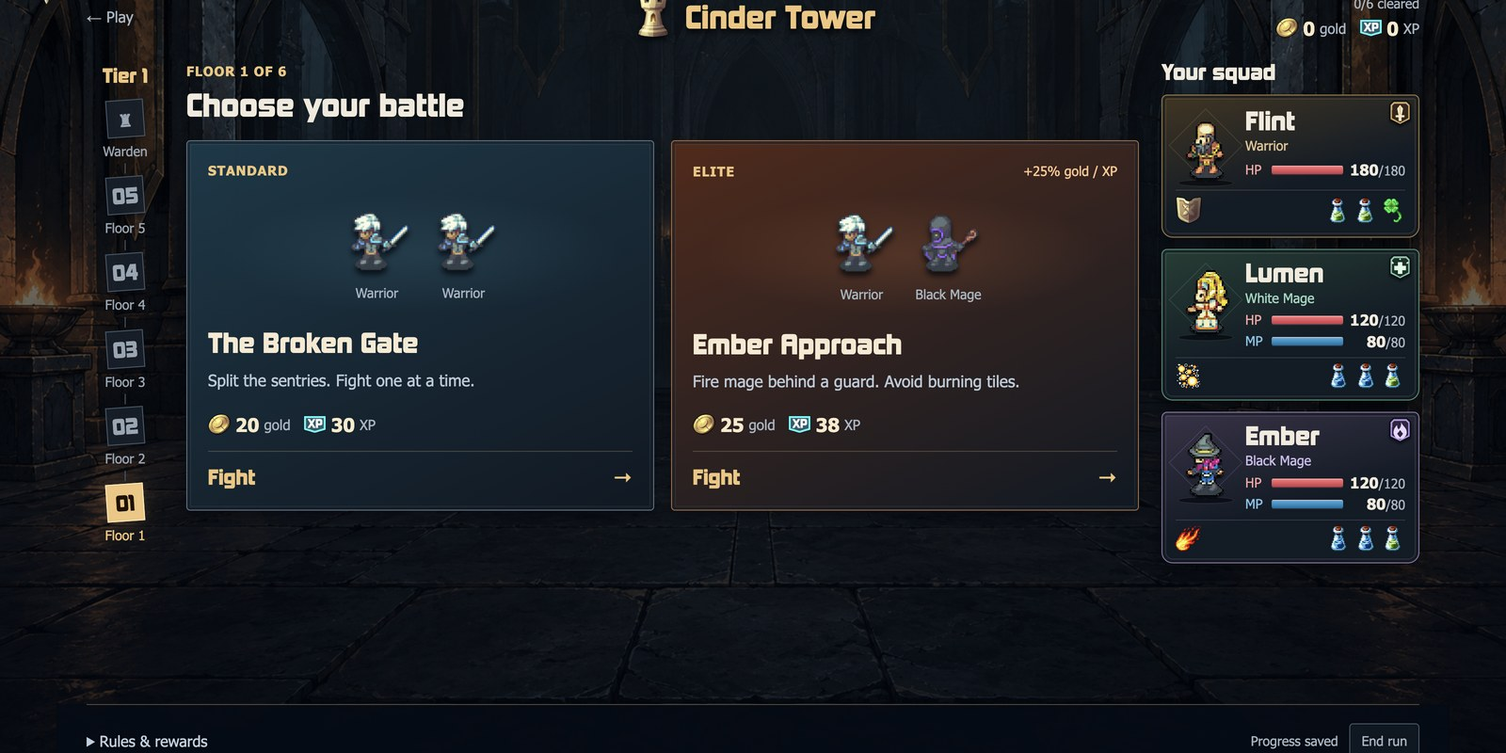
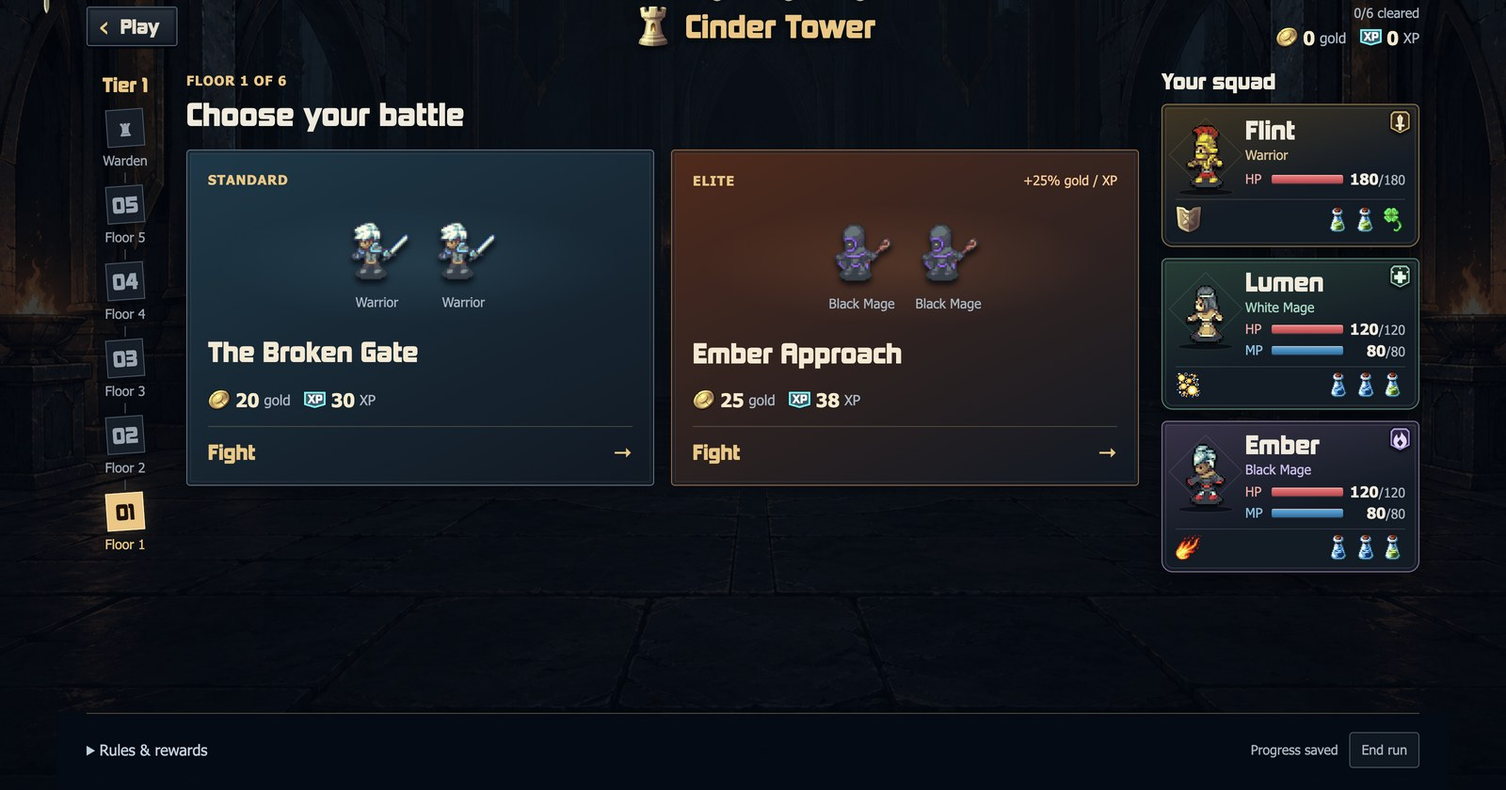
Refine Tower controls and build a full-height Ember fire wall

diff --git a/client/src/components/TowerPage.css b/client/src/components/TowerPage.css
@@ -3,7 +3,7 @@
 .tower-page {
   --tower-gold: oklch(85% .105 80); --tower-muted: oklch(77% .025 245); --tower-line: oklch(46% .035 245); --tower-panel: oklch(24% .025 250);
   flex: 1; overflow-y: auto; min-height: 0; color: oklch(94% .02 85); font: 16px/1.4 Tahoma, Arial, sans-serif;
-  background: linear-gradient(oklch(13% .025 250 / .45), oklch(13% .025 250 / .8)), url('@assets/tower_hall.png') center / cover;
+  background: linear-gradient(oklch(13% .025 250 / .68), oklch(13% .025 250 / .88)), url('@assets/tower_hall.png') center / cover;
 }
 .tower-page *, .tower-page *::before, .tower-page *::after {box-sizing: border-box;}
 .tower-layout {max-width: 1480px; min-height: 100%; display: flex; flex-direction: column; padding: 12px 32px 0; margin: auto;}
@@ -20,8 +20,10 @@
 .tower-page button:disabled {opacity: .5; cursor: wait;}
 .tower-page :is(button, a, select, summary):focus-visible, .tower-kit:has(input:focus-visible) {outline: 3px solid oklch(86% .09 195); outline-offset: 4px;}
 .tower-heading {display: grid; grid-template-columns: 1fr auto 1fr; align-items: center; gap: 20px; min-height: 56px; margin-bottom: 18px;}
-.tower-back {justify-self: start; color: var(--tower-muted); text-decoration: none; font-size: 16px; padding: 8px 0;}
-.tower-back:hover {color: var(--tower-gold);}
+.tower-back {justify-self: start; display: inline-flex; align-items: center; gap: 12px; min-height: 42px; padding: 5px 18px 5px 12px; border: 1px solid oklch(51% .045 245); border-radius: 3px; background: linear-gradient(oklch(31% .025 250), oklch(22% .025 250)); box-shadow: inset 0 0 0 3px oklch(12% .025 250 / .4), 0 3px 0 oklch(10% .025 250 / .7); color: oklch(90% .025 85); text-decoration: none; font: 20px Kim, sans-serif;}
+.tower-back>span {color: var(--tower-gold); font: 28px/1 Tahoma, sans-serif;}
+.tower-back:hover {color: var(--tower-gold); border-color: var(--tower-gold);}
+.tower-back:active {transform: translateY(1px);}
 .tower-title {display: flex; align-items: center; gap: 10px; filter: drop-shadow(0 3px 3px oklch(10% .02 250));}
 .tower-title>img {width: 48px; height: 56px; object-fit: contain;}
 .tower-mode-label {justify-self: end; color: var(--tower-muted); font-size: 14px;}
@@ -52,8 +54,13 @@
 .tower-rewards b {color: oklch(94% .045 85); font-size: 20px; font-variant-numeric: tabular-nums;}
 .tower-preparation-heading {display: flex; align-items: center; justify-content: space-between; gap: 16px; margin: 4px 0 16px;}
 .tower-preparation-heading h2 {font-size: 26px;}
-.tower-preparation-heading label {font-size: 16px; color: var(--tower-muted);}
-.tower-page select {font-size: 16px; border: 1px solid oklch(60% .06 80); padding: 9px 12px; margin-left: 8px; border-radius: 3px; background: oklch(23% .03 245);}
+.tower-difficulty {display: flex; align-items: center; gap: 12px; font-size: 15px; color: var(--tower-muted);}
+.tower-difficulty-control {position: relative; display: inline-flex; align-items: center;}
+.tower-page .tower-difficulty select {appearance: none; min-width: 122px; max-width: 280px; min-height: 44px; padding: 9px 42px 9px 18px; border: 1px solid oklch(64% .07 80); border-radius: 3px; background: linear-gradient(oklch(34% .04 75), oklch(23% .025 250)); box-shadow: inset 0 0 0 3px oklch(12% .025 250 / .4), 0 3px 0 oklch(10% .025 250 / .7); color: var(--tower-gold); font: 20px Kim, sans-serif;}
+.tower-difficulty select:hover:not(:disabled) {border-color: var(--tower-gold);}
+.tower-difficulty select:disabled {opacity: .5; cursor: wait;}
+.tower-difficulty option {background: oklch(23% .025 250); color: oklch(94% .02 85); font: 16px Tahoma, sans-serif;}
+.tower-difficulty-control>span {position: absolute; right: 14px; top: 6px; color: var(--tower-gold); font: 24px Tahoma, sans-serif; pointer-events: none;}
 .tower-kits {display: flex; gap: 12px; margin-bottom: 18px;}
 .tower-kit {position: relative; flex: 1; display: flex; align-items: center; gap: 12px; padding: 10px 18px; border: 1px solid var(--tower-line); border-radius: 4px; cursor: pointer; background: oklch(22% .025 245 / .95); box-shadow: inset 0 1px oklch(80% .02 245 / .1), 0 3px 6px oklch(10% .02 250 / .25);}
 .tower-kit>input {position: absolute; opacity: 0; width: 1px; height: 1px;}
@@ -100,7 +107,12 @@
 .tower-page .tower-primary {display: inline-flex; justify-content: space-between; align-items: center; gap: 28px; min-height: 52px; min-width: 270px; font: 23px Kim, sans-serif; border: 1px solid oklch(88% .1 85); background: linear-gradient(oklch(83% .11 78), oklch(69% .12 65)); color: oklch(20% .035 65); box-shadow: inset 0 1px oklch(95% .05 85 / .65), inset 0 0 0 3px oklch(91% .07 80 / .2), 0 4px 0 oklch(36% .07 65); text-shadow: 0 1px oklch(95% .05 85 / .35);}
 .tower-page .tower-primary:hover:not(:disabled) {background: linear-gradient(oklch(89% .1 80), oklch(77% .11 68));}
 .tower-command-bar {position: sticky; bottom: 0; z-index: 3; display: flex; align-items: center; justify-content: space-between; gap: 24px; min-height: 82px; margin-top: auto; padding: 14px 0 18px; border-top: 1px solid oklch(64% .07 80 / .5); background: oklch(15% .025 250 / .97); box-shadow: 32px 0 oklch(15% .025 250 / .97), -32px 0 oklch(15% .025 250 / .97);}
-.tower-run-note {margin-left: auto; font-size: 16px; color: var(--tower-muted);}
+.tower-run-length {display: flex; align-items: center; gap: 16px; margin-left: auto; color: var(--tower-muted); font-size: 15px; white-space: nowrap;}
+.tower-run-length b {color: var(--tower-gold); font: 26px Kim, sans-serif;}
+.tower-run-track {position: relative; display: flex; align-items: center; gap: 14px; height: 40px;}
+.tower-run-track::before {content: ''; position: absolute; left: 0; right: 16px; top: 50%; height: 1px; background: oklch(62% .07 80 / .6);}
+.tower-run-track i {z-index: 1; width: 8px; height: 8px; border: 1px solid oklch(78% .08 80); background: oklch(35% .045 80); transform: rotate(45deg);}
+.tower-run-track img {z-index: 1; width: 32px; height: 40px; object-fit: contain; filter: drop-shadow(0 2px 3px oklch(8% .025 250));}
 .tower-rules {color: var(--tower-muted);}
 .tower-rules summary {cursor: pointer; padding: 10px 0; font-size: 16px; color: oklch(85% .03 245);}
 .tower-rules[open] {position: absolute; bottom: 100%; left: 0; max-width: 680px; padding: 16px 22px; border: 1px solid var(--tower-line); background: oklch(20% .025 250); box-shadow: 0 8px 32px oklch(7% .02 250 / .65); max-height: 60vh; overflow-y: auto;}
@@ -193,7 +205,7 @@
   .active-run .tower-hero-art {width: 100%; height: 90px;} .active-run .tower-unit-heading {margin: 6px 0 12px;} .active-run .tower-crest {display: none;}
   .tower-unit h4 {font-size: 26px;} .tower-crest {width: 30px; height: 34px;} .tower-unit-heading {gap: 8px;}
   .tower-preparation-heading {margin-bottom: 12px;} .tower-preparation-heading h2 {font-size: 26px;}
-  .tower-command-bar {gap: 16px; box-shadow: 18px 0 oklch(15% .025 250 / .97), -18px 0 oklch(15% .025 250 / .97);} .tower-run-note {display: none;}
+  .tower-command-bar {gap: 16px; box-shadow: 18px 0 oklch(15% .025 250 / .97), -18px 0 oklch(15% .025 250 / .97);} .tower-run-length {gap: 10px;} .tower-run-track {gap: 8px;}
 }
 @media (max-width: 600px) {
   .tower-heading {grid-template-columns: auto 1fr;} .tower-title {justify-self: end;} .tower-page h1 {font-size: 24px;}
@@ -202,14 +214,15 @@
   .tower-hero-art, .active-run .tower-hero-art {grid-column: 1; grid-row: 1/3; width: 90px; height: 120px; margin: 0;} .tower-portrait, .active-run .tower-portrait {transform: scale(1);}
   .tower-unit-heading, .active-run .tower-unit-heading {grid-column: 2; margin: 0;} .tower-vitals, .active-run .tower-vitals {grid-column: 2;} .tower-loadout, .active-run .tower-loadout {grid-column: 1/-1;}
   .tower-crest {display: none;} .tower-hero-art::before {width: 80px; height: 80px;} .tower-hero-art::after {width: 80px;}
-  .tower-choices {grid-template-columns: 1fr;} .tower-command-bar {gap: 10px;} .tower-page .tower-primary {min-width: 0; font-size: 20px; gap: 12px;}
+  .tower-choices {grid-template-columns: 1fr;} .tower-command-bar {gap: 10px; flex-wrap: wrap;} .tower-run-length {margin-left: 0;} .tower-command-bar:has(.tower-run-length)>.tower-primary {width: 100%;} .tower-page .tower-primary {min-width: 0; font-size: 20px; gap: 12px;}
   .tower-progress, .tower-header-progress {justify-self: end; display: grid; justify-items: end; gap: 4px; padding: 0; border: 0;}
 .tower-header-progress>span:first-child {font-size: 14px; color: var(--tower-muted);}
 .tower-progress>div {flex-wrap: wrap; gap: 8px;} .tower-resume {padding: 18px; flex-wrap: wrap;} .tower-result h2 {font-size: 26px;}
 }
 @media (prefers-reduced-motion: reduce) {.tower-page button {transition: none;} .tower-page .tower-choice:hover:not(:disabled) {transform: none;}}
-.tower-combat-banner {position: absolute; z-index: 2; top: 18px; left: 50%; transform: translateX(-50%); max-width: 45vw; padding: 10px 22px; border: 1px solid oklch(59% .07 70); border-radius: 3px; background: linear-gradient(oklch(30% .03 245), oklch(22% .025 250)); color: oklch(89% .08 80); text-align: center; pointer-events: none; font: 18px/1.4 Kim, sans-serif; box-shadow: 0 4px 15px oklch(10% .025 250 / .4);}
-.tower-combat-banner span {display: block; color: oklch(85% .025 245); font: 12px/1.5 Tahoma, sans-serif;}
+.tower-combat-banner {position: absolute; z-index: 2; top: 14px; left: 50%; transform: translateX(-50%); display: flex; align-items: baseline; gap: 8px; padding: 5px 18px 7px; border: 1px solid oklch(65% .08 80); border-radius: 3px 3px 12px 12px; background: linear-gradient(oklch(30% .035 245 / .96), oklch(18% .025 250 / .96)); color: oklch(89% .08 80); pointer-events: none; box-shadow: inset 0 0 0 3px oklch(10% .025 250 / .45), 0 3px 10px oklch(10% .025 250 / .4);}
+.tower-combat-banner span {font: 16px Kim, sans-serif; color: oklch(83% .03 85);}
+.tower-combat-banner strong {font: 26px/1 Kim, sans-serif;}
 .tower-untimed {font: .8rem Kim, sans-serif; color: oklch(85% .025 245);}
 
 @media (max-width: 900px) {
@@ -233,13 +246,12 @@
 .tower-choices:has(>.boss) {grid-template-columns: 1fr;}
 .tower-page .tower-choice.boss {display: grid; grid-template-columns: 180px minmax(0,1fr); gap: 16px 24px;}
 .tower-choice.boss .tower-encounter-top {grid-column: 1/-1;}
-.tower-choice.boss .tower-enemy-lineup {grid-column: 1; grid-row: 2/5; align-self: center; gap: 16px; padding: 12px 0;}
+.tower-choice.boss .tower-enemy-lineup {grid-column: 1; grid-row: 2/4; align-self: center; gap: 16px; padding: 12px 0;}
 .tower-choice.boss .tower-enemy-lineup>span:first-child {width: 100%;}
 .tower-choice.boss .tower-enemy-lineup>span:first-child img {width: 100px; height: 112px; image-rendering: auto;}
 .tower-choice.boss .tower-enemy-lineup img {width: 64px; height: 64px;}
 .tower-choice.boss>strong {grid-column: 2; grid-row: 2; align-self: end; font-size: 32px;}
-.tower-choice.boss .tower-choice-description {grid-column: 2; grid-row: 3; align-self: center;}
-.tower-choice.boss .tower-spoils {grid-column: 2; grid-row: 4; align-self: start; margin: 0; padding: 0;}
+.tower-choice.boss .tower-spoils {grid-column: 2; grid-row: 3; align-self: start; margin: 0; padding: 0;}
 .tower-choice.boss .tower-choice-action {grid-column: 1/-1;}
 @media (max-width: 600px) {
   .tower-page .tower-choice.boss {display: flex;} .tower-choice.boss .tower-enemy-lineup {align-self: stretch;}

diff --git a/client/src/components/TowerPage.tsx b/client/src/components/TowerPage.tsx
@@ -72,7 +72,7 @@ export default function TowerPage() {
   return <main className={`tower-page ${run && !finished ? 'is-climbing' : 'is-preparing'}`} aria-busy={busy}>
     <div className="tower-layout">
       <header className="tower-heading">
-        <Link href="/play" className="tower-back">← Play</Link>
+        <Link href="/play" className="tower-back"><span aria-hidden="true">‹</span> Play</Link>
         <div className="tower-title"><img src={towerIcon} alt="" /><h1>Cinder Tower</h1></div>
         {run && !finished ? <section className="tower-progress tower-header-progress" aria-label="Banked rewards"><span>{completed}/6 cleared</span><Rewards reward={run.earned} /></section> : <span className="tower-mode-label">Solo · Untimed</span>}
       </header>
@@ -99,9 +99,9 @@ export default function TowerPage() {
             </div>}
 
 
-            <div className="tower-preparation-heading"><h2>{finished ? 'Next expedition' : 'Choose your squad'}</h2><label>Difficulty <select value={tier} disabled={busy} onChange={event => setTier(Number(event.currentTarget.value))}>
+            <div className="tower-preparation-heading"><h2>{finished ? 'Next expedition' : 'Choose your squad'}</h2><label className="tower-difficulty"><span>Difficulty</span><span className="tower-difficulty-control"><select value={tier} disabled={busy} onChange={event => setTier(Number(event.currentTarget.value))}>
               {Array.from({length: Math.min(TOWER_MAX_TIER, progress.highestClear + 1)}, (_, i) => <option key={i} value={i + 1}>Tier {i + 1}{i === 0 ? '' : ` · +${i * 15}% enemy power`}</option>)}
-            </select></label></div>
+            </select><span aria-hidden="true">⌄</span></span></label></div>
             <div className="tower-kits" role="radiogroup" aria-label="Starting kit">
               <label className={`tower-kit ${kit === 'balanced' ? 'selected' : ''}`}><input type="radio" name="tower-kit" value="balanced" checked={kit === 'balanced'} disabled={busy} onChange={() => setKit('balanced')} />
                 <img src={shieldIcon} alt="" /><span><strong>Balanced</strong><small>Fire & healing</small></span><span className="tower-kit-check" aria-hidden="true">{kit === 'balanced' ? '✓' : ''}</span></label>
@@ -140,7 +140,7 @@ export default function TowerPage() {
                 }) : TOWER_ENCOUNTERS[run.floor].map(encounter => <button key={encounter.id} type="button" className={`tower-choice tower-encounter ${encounter.elite ? 'elite' : ''} ${run.floor === 5 ? 'boss' : ''}`} disabled={disabled} onClick={() => act('battle', {encounter: encounter.id})}>
                   <span className="tower-encounter-top"><span className="tower-kicker">{run.floor === 5 ? 'BOSS' : encounter.elite ? 'ELITE' : 'STANDARD'}</span>{encounter.elite && <span className="tower-bonus">+25% gold / XP</span>}</span>
                   <span className="tower-enemy-lineup">{encounter.enemies.map((enemy, index) => <span key={index} title={`${enemy.name} · ${ClassLabels[enemy.class]}`}><img src={enemy.boss ? towerIcon : classIcons[enemy.class]} alt="" /><small>{enemy.boss ? 'Warden' : ClassLabels[enemy.class]}</small></span>)}</span>
-                  <strong>{encounter.name}</strong><span className="tower-choice-description">{encounter.description}</span>
+                  <strong>{encounter.name}</strong>
                   <span className="tower-spoils"><span className="tower-kicker">REWARDS</span><Rewards reward={towerReward(run.floor, run.tier, encounter.elite)} /></span>
                   <span className="tower-choice-action">{run.floor === 5 ? 'Challenge Warden' : 'Fight'} <span aria-hidden="true">→</span></span>
                 </button>)}
@@ -158,7 +158,7 @@ export default function TowerPage() {
             <p>Each tier adds 15% enemy HP and attack power and 20% gold and XP. Clear a tier to unlock the next, up to Tier 5. Tower battles do not count toward ranked results, ELO, or match-count unlocks.</p>
             <p>An internet connection is required. Close Legion between encounters and return later. A short disconnect pauses the battle. If the server can no longer resume it, restart that encounter from its saved entry state with no duplicate rewards.</p>
           </details>
-        {(!run || finished) && <><span className="tower-run-note">6 battles · Keep your rewards</span><button type="button" className="tower-primary" disabled={disabled} onClick={() => act('create', {tier, kit})}>{busy ? 'Preparing…' : 'Begin expedition'} <span aria-hidden="true">→</span></button></>}
+        {(!run || finished) && <><span className="tower-run-length"><span className="tower-run-track" aria-hidden="true">{Array.from({length: TOWER_FLOORS - 1}, (_, i) => <i key={i} />)}<img src={towerIcon} alt="" /></span><span><b>{TOWER_FLOORS}</b> battles</span></span><button type="button" className="tower-primary" disabled={disabled} onClick={() => act('create', {tier, kit})}>{busy ? 'Preparing…' : 'Begin expedition'} <span aria-hidden="true">→</span></button></>}
         {run && !finished && run.upgrades.length > 0 && <details name="tower-info" className="tower-rules tower-build"><summary>Build · {run.upgrades.length}</summary><ul>{run.upgrades.map((id, index) => {
           const upgrade = TOWER_UPGRADES.find(candidate => candidate.id === id)!;
           return <li key={index}><strong>{upgrade.name}</strong><p>{upgrade.description}</p></li>;

diff --git a/client/src/components/GuidePage.tsx b/client/src/components/GuidePage.tsx
@@ -74,9 +74,10 @@ export default function GuidePage({onClose}: {onClose?: () => void}) {
             <h2 id="tower" tabIndex={-1}>The Cinder Tower</h2>
             <p>On Play, choose the golden rook to the right of Ranked. Choose Balanced or Control, set the difficulty, and use Begin expedition in the bottom bar. Rules & rewards opens the full rules.</p>
             <p>Choose <strong>The Cinder Tower</strong> on Play for an online solo expedition. A temporary Warrior, White Mage, and Black Mage climb six floors, ending with the Cinder Warden. Turns have no deadline. Your main roster and owned consumables are separate from this squad.</p>
-            <figure><img src={tower} width="1600" height="800" loading="lazy" alt="The tower route screen with the expedition squad, banked rewards, and a choice between the Broken Gate and the more dangerous Ember Approach." /><figcaption>Follow your ascent on the left. Check your squad, compare the enemy lineups, and choose your next encounter. Dangerous paths award 25% more gold and XP.</figcaption></figure>
+            <figure><img src={tower} width="1600" height="840" loading="lazy" alt="The tower route screen with the expedition squad, banked rewards, and a choice between the Broken Gate and the more dangerous Ember Approach." /><figcaption>Follow your ascent on the left. Check your squad, compare the enemy lineups, and choose your next encounter. Dangerous paths award 25% more gold and XP.</figcaption></figure>
             <p>After each victory, choose one preparation: recover, refill supplies, or take an upgrade. Spell lessons fill up to three slots and replace the oldest spell when full. Upgrades last only for this expedition. Sculptor of Ice makes Ice cost 15 less MP but halves its damage; Light Footwork gives the Warrior an extra movement tile and 12 Speed.</p>
             <p>Between victories, each ally is brought to at least 30% HP, then restores 15 HP and 15 MP, capped at their maximums. Knocked-out allies return and statuses clear. Sanctuary fully restores HP and MP; Quartermaster refills supplies. During Tower battles, ice traps thaw after two skipped turns, so a frozen squad can recover.</p>
+            <p>The combat badge shows your current floor. In Ember Approach, two fire mages stand beyond a wall of flame spanning the arena. Cast across it, or extinguish a section with Ice to cross safely.</p>
             <p>The Warden marks tiles before its next turn. Move away from those warning symbols before the blast. It leaves fire behind; the turn order shows when it will act.</p>
             <p>Gold, XP, and milestone items are banked after each victory. XP is shared across your permanent roster. Defeat or retirement ends the run but keeps everything already banked. Higher floors pay more. Clearing a tier unlocks the next, up to Tier 5; each tier adds 15% enemy HP and attack power and 20% account rewards. Your first clear also unlocks the Control starting kit.</p>
             <p>Tower encounters do not increase ELO, league results, or completed-match unlock counters. There is no entry fee or daily limit. You can leave and return between encounters. A short disconnect pauses combat; if the battle can no longer resume, it restarts from that encounter’s saved entry state. An internet connection is required.</p>

diff --git a/server/src/__tests__/tower.test.ts b/server/src/__tests__/tower.test.ts
@@ -4,8 +4,10 @@ import {AIServerPlayer} from '../AIServerPlayer';
 import {TowerGame} from '../TowerGame';
 import {TurnSystem} from '../TurnSystem';
 import {createTowerRun, TOWER_ENCOUNTERS, TOWER_UPGRADES, chooseTowerUpgrade, finishTowerBattle, towerOffers} from '@legion/shared/tower';
-import {League, PlayMode, StatusEffect, Terrain} from '@legion/shared/enums';
+import {Class, League, PlayMode, StatusEffect, Terrain} from '@legion/shared/enums';
 import {getSpellById} from '@legion/shared/Spells';
+import {GRID_HEIGHT} from '@legion/shared/config';
+import {Spell} from '../Spell';
 import {isSkip} from '@legion/shared/utils';
 
 const games: TowerGame[] = [];
@@ -31,6 +33,28 @@ test('all authored encounters have valid, distinct spawns and traversable starti
       expect(game.listCellsInRange(unit.x, unit.y, unit.distance).length).toBeGreaterThan(0);
     }
   }
+});
+
+test('Ember Approach has a full-height fire wall, ranged enemies, and an Ice crossing', async () => {
+  const game = await battle(0, 1);
+  for (let y = 0; y < GRID_HEIGHT; y++) expect(game.checkIsOnFlame(7, y)).toBe(true);
+  expect(game.terrainManager.getNbBurning()).toBe(GRID_HEIGHT);
+  expect(game.getTeam(2)).toHaveLength(2);
+  for (const enemy of game.getTeam(2)) {
+    expect(enemy.class).toBe(Class.BLACK_MAGE);
+    expect(enemy.x).toBeGreaterThan(7);
+    expect(game.checkIsOnFlame(enemy.x, enemy.y)).toBe(false);
+    const fire = enemy.spells.find(spell => spell.id === 0)!;
+    expect(fire.cost).toBeLessThanOrEqual(enemy.mp);
+    const target = game.scanGridForAoE(enemy, fire.radius - 1);
+    expect(target).not.toBeNull();
+    expect(target!.x).toBeLessThan(7);
+  }
+  game.terrainManager.updateTerrainFromSpell(new Spell(getSpellById(6)!), 7, 5);
+  expect(game.terrainManager.getTerrain(7, 5)).toBe(Terrain.NONE);
+  expect(game.hasObstacle(7, 5)).toBe(false);
+  expect(game.checkIsOnFlame(7, 0)).toBe(true);
+  expect(game.checkIsOnFlame(7, GRID_HEIGHT - 1)).toBe(true);
 });
 
 test('temporary upgrade effects reach combat without mutating shared spells', async () => {

diff --git a/client/src/components/HUD/GameHUD.tsx b/client/src/components/HUD/GameHUD.tsx
@@ -33,7 +33,6 @@ interface GameHUDState {
   characters: CharacterUpdate[];
   isSpectator: boolean;
   tower: {floor: number; tier: number; name: string} | null;
-  towerWarning: boolean;
   mode: PlayMode;
   game0: boolean;
   grade: string;
@@ -74,7 +73,6 @@ class GameHUD extends Component<GameHUDProps, GameHUDState> {
     isSpectator: false,
     mode: null,
     tower: null,
-    towerWarning: false,
     game0: false,
     grade: null,
     chests: [],
@@ -105,7 +103,6 @@ class GameHUD extends Component<GameHUDProps, GameHUDState> {
     events.on('refreshOverview', this.updateOverview);
     events.on('gameEnd', this.endGame);
     events.on('towerInfo', this.setTowerInfo);
-    events.on('towerWarning', this.setTowerWarning);
     events.on('hoverCharacter', () => {
       if (this.state.pendingSpell || this.state.pendingItem) return;
       this.handleCursorChange('pointerCursor')
@@ -216,7 +213,6 @@ class GameHUD extends Component<GameHUDProps, GameHUDState> {
   }
 
   setTowerInfo = (tower: GameHUDState['tower']) => this.setState({tower});
-  setTowerWarning = (towerWarning: boolean) => this.setState({towerWarning});
 
   endGame = (data: OutcomeData) => {
     recordCompletedGame();
@@ -320,8 +316,7 @@ class GameHUD extends Component<GameHUDProps, GameHUDState> {
           </>
         )}
         {this.state.tower && <div className="tower-combat-banner" role="status">
-          <strong>Floor {this.state.tower.floor}/6 · {this.state.tower.name}</strong>
-          <span>{this.state.towerWarning ? 'Marked tiles erupt on the Warden’s turn. Move away!' : 'Expedition · Untimed turns · Rewards bank after each victory'}</span>
+          <span>Floor</span> <strong>{this.state.tower.floor}</strong>
         </div>}
         {isHUDVisible && (
           <PlayerBar

diff --git a/client/tools/guide/fixtures.tsx b/client/tools/guide/fixtures.tsx
@@ -1,4 +1,4 @@
-import {createTowerRun, chooseTowerUpgrade, finishTowerBattle, TowerProgress} from '@legion/shared/tower';
+import {createTowerRun, chooseTowerUpgrade, finishTowerBattle, TowerProgress, TOWER_ENCOUNTERS} from '@legion/shared/tower';
 // Screenshot-only providers. The release webpack config never imports this file.
 import 'phaser';
 import { h, ComponentChildren } from 'preact';
@@ -110,6 +110,17 @@ Arena.prototype.connectToServer = async function () {
     snapshot.player.team[2].spells = [0, 6];
     snapshot.player.team[2].towerSpellCosts = {0: 10, 6: 15};
     this.socket.on('towerEnd', () => route('/tower'));
+  }
+  if (location.pathname.includes('/tower-embers')) {
+    const encounter = TOWER_ENCOUNTERS[0].find(entry => entry.id === 'embers')!;
+    snapshot.general.mode = PlayMode.TOWER;
+    snapshot.general.tower = {floor: 1, tier: 1, name: encounter.name, warning: []};
+    snapshot.turnee.turnDuration = 0; snapshot.turnee.timeLeft = 0;
+    snapshot.terrain = encounter.terrain;
+    snapshot.opponent.team = encounter.enemies.map(enemy => ({...snapshot.opponent.team[2],
+      name: enemy.name, class: enemy.class, x: enemy.x, y: enemy.y, hp: enemy.hp, maxHP: enemy.hp,
+      mp: 100, maxMP: 100, spells: enemy.spells}));
+    snapshot.queue = snapshot.queue.filter(unit => unit.team !== 2 || unit.num <= encounter.enemies.length);
   }
   this.enqueueMessage('gameStatus', snapshot);
 };

diff --git a/shared/tower.ts b/shared/tower.ts
@@ -1,4 +1,5 @@
 import {Class, Terrain, RewardType} from './enums';
+import {GRID_HEIGHT} from './config';
 import {NewCharacter} from './NewCharacter';
 import {DBCharacterData, ChestReward} from './interfaces';
 import {getXPThreshold} from './levelling';
@@ -45,8 +46,8 @@ export const TOWER_ENCOUNTERS: TowerEncounter[][] = [
   [
     {id: 'gate', name: 'The Broken Gate', description: 'Split the sentries. Fight one at a time.', elite: false,
       enemies: [fighter('Gate Sentry', 9, 4, 80), fighter('Gate Sentry', 10, 7, 80)], terrain: []},
-    {id: 'embers', name: 'Ember Approach', description: 'Fire mage behind a guard. Avoid burning tiles.', elite: true,
-      enemies: [fighter('Ash Guard', 9, 5, 85), mage('Ember Adept', [0], 11, 6, 65)], terrain: [fire(7, 5), fire(8, 5)]},
+    {id: 'embers', name: 'Ember Approach', description: 'Two fire mages across a wall of flame. Ice opens a crossing.', elite: true,
+      enemies: [mage('Ash Adept', [0], 9, 5, 65), mage('Ember Adept', [0], 11, 6, 65)], terrain: Array.from({length: GRID_HEIGHT}, (_, y) => fire(7, y))},
   ],
   [
     {id: 'sanctum', name: 'The Warded Sanctum', description: 'A healer sustains two guards. Focus your attacks.', elite: false,

diff --git a/client/src/game/Arena.ts b/client/src/game/Arena.ts
@@ -1250,7 +1250,6 @@ export class Arena extends Phaser.Scene
             return this.add.text(x, y + 15, '⚠', {fontFamily: 'Arial', fontSize: '34px', color: '#ffe3a1', backgroundColor: '#5b251c', padding: {x: 6, y: 2}})
                 .setOrigin(0.5).setDepth(10000);
         });
-        events.emit('towerWarning', tiles.length > 0);
     }
 
     processQueueData(data: TurnQueueEntry[]) {

diff --git a/docs/tower.md b/docs/tower.md
@@ -6,6 +6,8 @@ An online solo expedition, entered from Play → The Cinder Tower. It uses the e
 
 `shared/tower.ts` defines starting squads, eleven encounters, twelve preparations, recovery and account rewards. Starting stats, inventory and spell loadouts are standardized; the permanent roster never enters combat. Spell lessons replace the oldest of three learned spells when necessary. Upgrades are temporary, including cheaper/weaker Ice and increased Warrior movement.
 
+Ember Approach places two Fire mages beyond a continuous column of flame across all eleven arena rows. Ranged spells can cross it, and Ice extinguishes a section for passage.
+
 Turns are untimed for humans. AI retains a bounded fallback if it cannot find a legal action. Frozen characters thaw after two skipped turns in Tower only. The Warden marks a fixed area before its next activation; the warning is part of reconnect snapshots, and clears on death. Its blast deals 35 + 5 × tier damage and leaves fire.
 
 After victory, HP becomes min(maxHP, max(currentHP, ceil(0.3 × maxHP)) + 15); MP restores 15, capped at maxMP. This also revives fallen allies. Statuses clear for the next encounter. Sanctuary restores both resources fully. Quartermaster refills carrying capacity with Potions for the Warrior and Ether for mages. No passive in-combat recovery is added, so delaying victory cannot generate free resources.
@@ -37,6 +39,6 @@ The Play screen uses the same mode-card component for Tower, immediately after R
 
 `client/public/tower_icon.png` was generated with the built-in Imagegen tool, using `practice_icon.png`, `casual_icon.png`, and `ranked_icon.png` as style references. Prompt: Create a fourth Legion game-mode icon, one chess rook on a transparent background. Match the existing bold, chunky silhouette and flat faceted shading, with ivory-gold upper-left highlights, antique-gold midtones, umber right-hand shadows, no outline or noisy texture. Use a crenellated crown, tapered column, broad stepped base and one small ember-lit arched opening. Front view with a slightly visible top. Center the complete piece on a square canvas; no text, ground, separate pedestal, cast shadow, frame or extra objects. It must read at 90 pixels high and resemble game UI artwork rather than realistic architecture or glossy 3D.
 
-The expedition is staged as a game screen: full character sprites and class crests anchor preparation, native kit controls sit above the squad, and the command bar keeps the next action at the bottom. During a climb, concise tactical encounter copy, large resource values, and compact squad cards stay visible beside the choices. Detailed rules open from the command bar. Completion has its own result presentation.
+The expedition is staged as a game screen: full character sprites and class crests anchor preparation, native kit controls sit above the squad, and the command bar keeps the next action at the bottom. During a climb, enemy lineups, large resource values, and compact squad cards stay visible beside the choices. Detailed rules open from the command bar. Completion has its own result presentation.
 
 `client/public/tower_hall.png` was generated with the built-in Imagegen tool as a quiet background for these screens. Prompt: Use case: stylized-concept. Asset type: 16:9 full-screen background painting for Legion, a fantasy tactical RPG squad preparation screen. Create an empty antechamber inside the Cinder Tower: massive weathered blue-slate stone columns and pointed arches on the extreme left and right, a very distant recessed central archway with a faint warm ember glow, broad worn flagstones across the foreground. Hand-drawn fantasy game environment, crisp ink contours and restrained textured painted shadows, bold readable stone shapes, muted charcoal teal and antique bronze palette. Camera looks straight into the hall, slightly downward, balanced composition with depth. Keep the middle 70 percent calm, dark, low contrast and spacious: separate character sprites and UI will be placed there. Architecture frames the edges and top, small braziers at far left and right cast restrained amber light. Detailed enough to feel like a crafted game world, never realistic or glossy 3D. No characters, furniture, interface panels, lettering, symbols, chess pieces, logos, or text. Wide 16:9 landscape.
